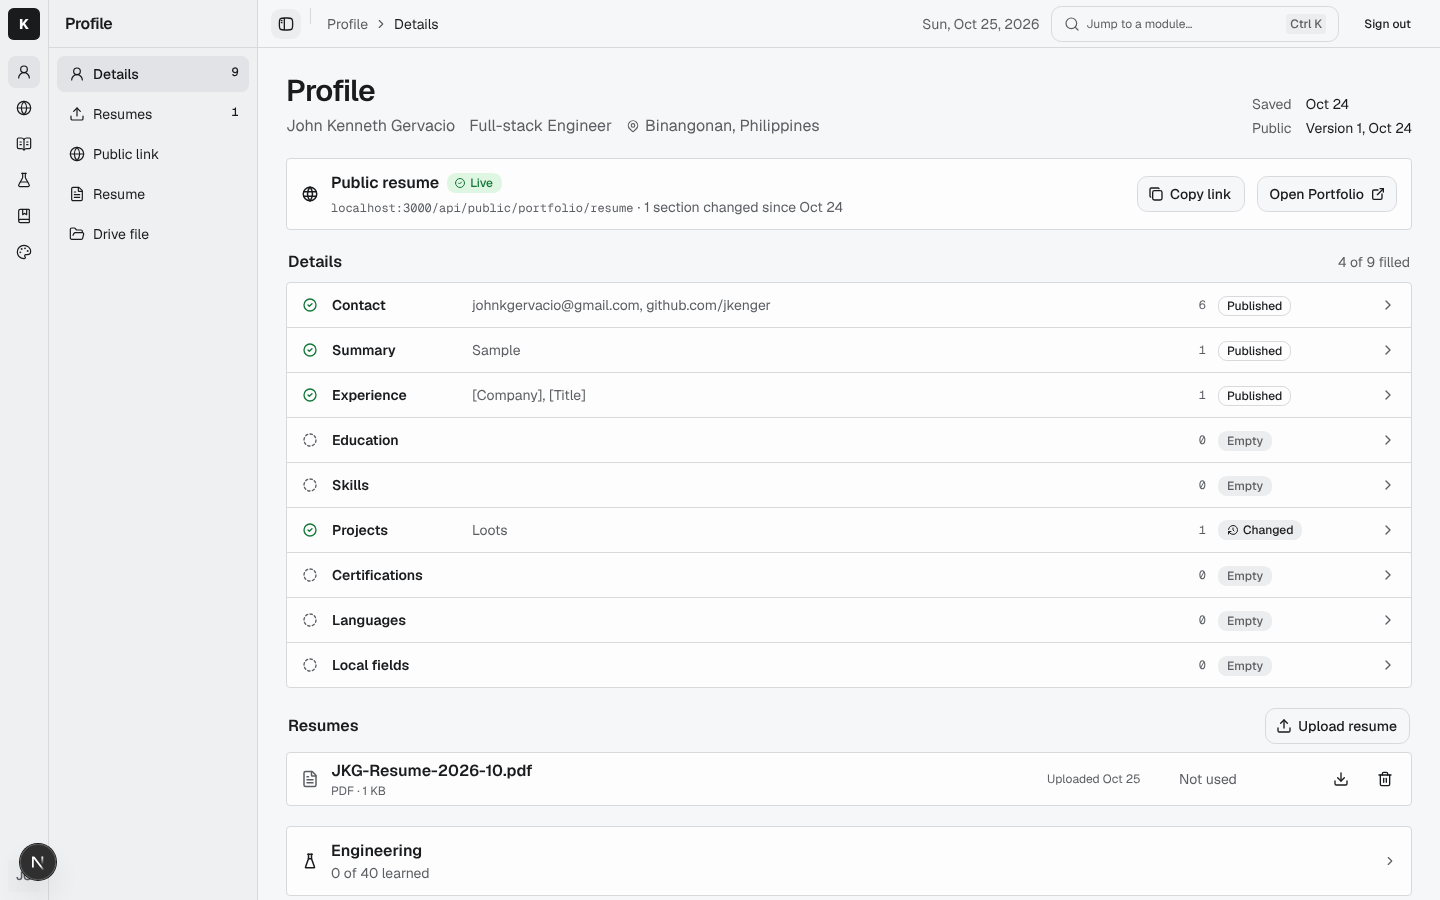
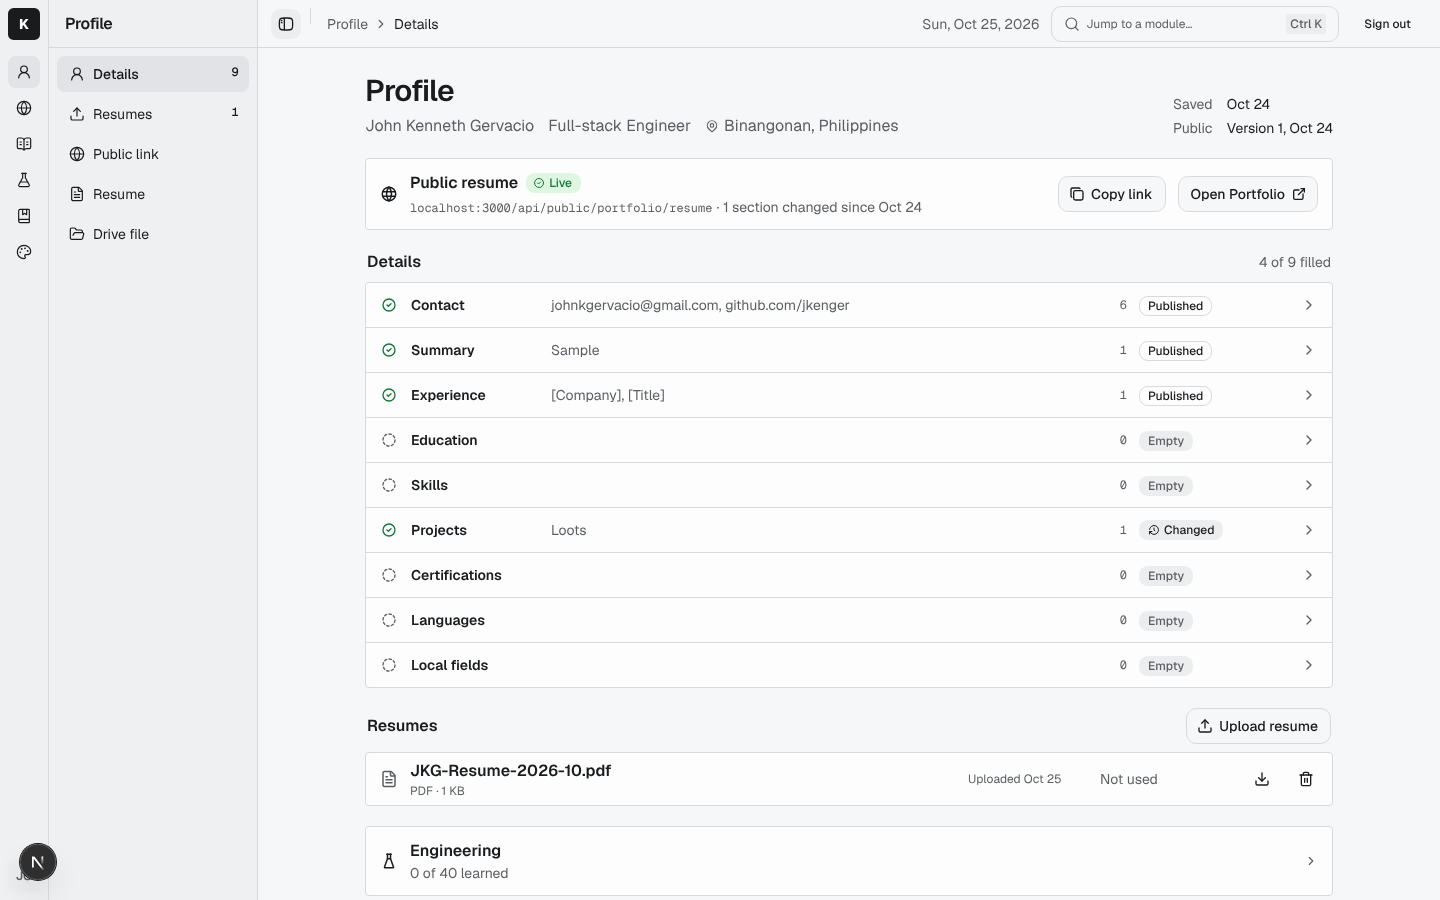
Center module pages again, capped at 1024px
Full width stretched the ledger rows with no panel open. Profile, Portfolio,
Resume and Terms sit in a centered max-w-5xl column; Project Memory keeps its
1320px cap.

Claude-Session: https://claude.ai/code/session_01X7a8fG9bLdnrKKphzPaoj1

diff --git a/apps/web/src/components/portfolio/portfolio-workspace.tsx b/apps/web/src/components/portfolio/portfolio-workspace.tsx
@@ -84,7 +84,7 @@ export function PortfolioWorkspace({ email, portfolio }: { email: string; portfo
 
   return (
     <WorkspaceShell email={email} active="portfolio">
-      <div className="px-3 pt-6 pb-24 md:px-5 md:pt-7.5">
+      <div className="mx-auto max-w-5xl px-3 pt-6 pb-24 md:px-5 md:pt-7.5">
         <PageHeading
           title="Publish"
           badge={live ? (unpublishedChanges ? "Changes not published" : "Live") : "Not published"}
@@ -141,7 +141,7 @@ export function PortfolioWorkspace({ email, portfolio }: { email: string; portfo
       </div>
 
       <div className="sticky bottom-0 z-10 border-t bg-background/95 backdrop-blur">
-        <div className="flex flex-wrap items-center justify-end gap-2 px-3 py-3 md:px-5">
+        <div className="mx-auto flex max-w-5xl flex-wrap items-center justify-end gap-2 px-3 py-3 md:px-5">
           {live && (
             <div className="mr-auto flex basis-full items-center gap-4 sm:basis-auto">
               <Button asChild variant="link" className="px-0">

diff --git a/apps/web/src/components/memory-workspace.tsx b/apps/web/src/components/memory-workspace.tsx
@@ -274,7 +274,7 @@ export function MemoryWorkspace({ email, overview }: { email: string; overview: 
 
   return (
     <WorkspaceShell email={email} active="memory">
-      <div className="min-h-[calc(100vh-88px)] w-full pb-8">
+      <div className="mx-auto min-h-[calc(100vh-88px)] w-full max-w-330 pb-8">
         <header className="px-5 pt-8 pb-2 sm:px-8 lg:px-10 lg:pt-10">
           <div className="flex flex-wrap items-end justify-between gap-6 border-b pb-5">
             <h1 className="font-heading text-2xl leading-tight font-semibold tracking-tight">Project Memory</h1>

diff --git a/apps/web/src/components/profile/profile-workspace.tsx b/apps/web/src/components/profile/profile-workspace.tsx
@@ -289,8 +289,7 @@ export function ProfileWorkspace({
     >
       <div className="flex min-w-0 items-start">
         <div className="min-w-0 flex-1">
-          {/* Centered with a loose cap, so the ledger reads as one column when no section panel sits beside it. */}
-          <div className="mx-auto w-full max-w-5xl px-3.5 pt-5 pb-10 md:px-7 md:pt-7 md:pb-12">
+          <div className="mx-auto max-w-5xl px-3.5 pt-5 pb-10 md:px-7 md:pt-7 md:pb-12">
             <div className="flex flex-col gap-5">
               <ProfileHeading
                 fullName={fullName}

diff --git a/apps/web/src/components/terms/terms-page.tsx b/apps/web/src/components/terms/terms-page.tsx
@@ -61,7 +61,7 @@ export function TermsPage({ email, terms }: { email: string; terms: SavedTerm[] 
 
   return (
     <WorkspaceShell email={email} active="terms">
-      <div className="min-h-[calc(100vh-88px)] w-full px-5 py-8 sm:px-8 lg:px-10 lg:py-10">
+      <div className="mx-auto min-h-[calc(100vh-88px)] w-full max-w-5xl px-5 py-8 sm:px-8 lg:px-10 lg:py-10">
         <h1 className="border-b pb-5 font-heading text-2xl leading-tight font-semibold tracking-tight">Terms</h1>
 
         {terms.length > 0 && (

diff --git a/apps/web/src/components/profile/resume-preview.tsx b/apps/web/src/components/profile/resume-preview.tsx
@@ -46,7 +46,7 @@ export function ResumePreview({
 
   return (
     <WorkspaceShell email={email} active="profile">
-      <div className="px-3 pt-6 pb-10 md:px-5 md:pt-7.5">
+      <div className="mx-auto max-w-5xl px-3 pt-6 pb-10 md:px-5 md:pt-7.5">
         <PageHeading title="Resume" />
         {!savedAt ? (
           <Card>

diff --git a/docs/mockups/profile.md b/docs/mockups/profile.md
@@ -76,9 +76,8 @@ None.
 
 - **A. Ledger** (24 Oct 2026). Each section row opens its form in the side panel; the row states are Unsaved, Empty,
   Hidden (Local fields, never on the public resume), Not published, Changed (a Publish would change it) and Published.
-- **Full width** (25 Oct 2026). Module pages fill the content inset, left-aligned, instead of a centered column.
-  Profile is the exception: its column is centered with a 1024px cap, so the ledger does not stretch when no section
-  panel is open, and it fills the space beside the panel when one is (25 Oct 2026).
+- **Page width** (25 Oct 2026). Module pages sit in a centered column capped at 1024px (max-w-5xl; Project Memory
+  keeps its 1320px), wider than the old 768px Profile column.
 - **Differences from the frame** (25 Oct 2026). Changed carries no date: nothing records when one section changed, only
   when the whole Profile was saved. There is no separate Phone row: the phone is part of Contact and never published.
   Each resume row shows Not used and Download and Delete until Autofill exists. The section column keeps Resume and
